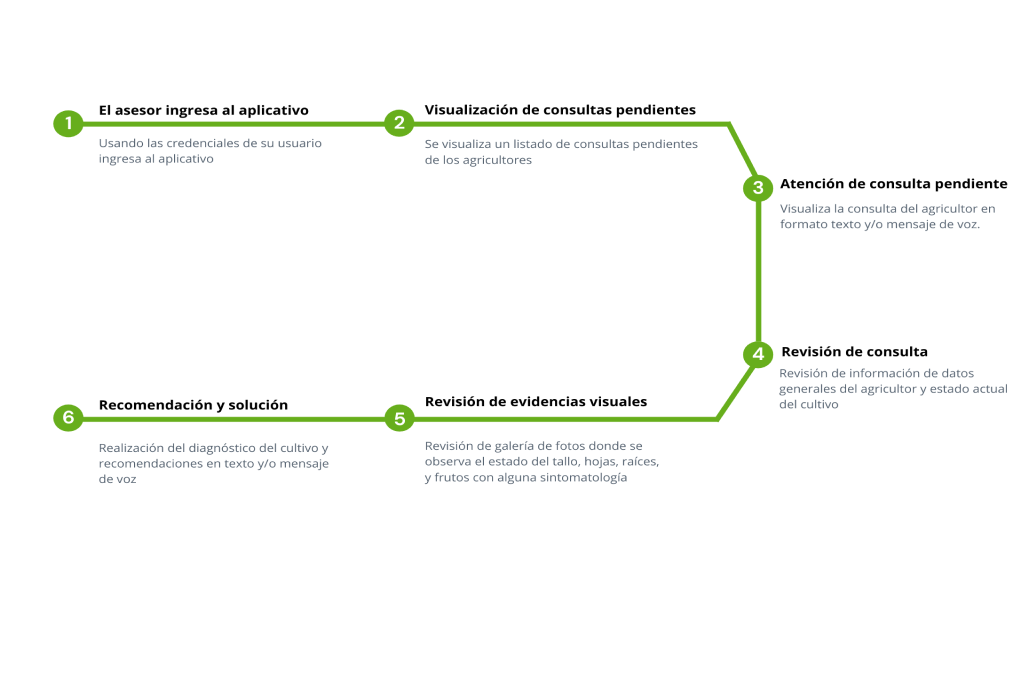
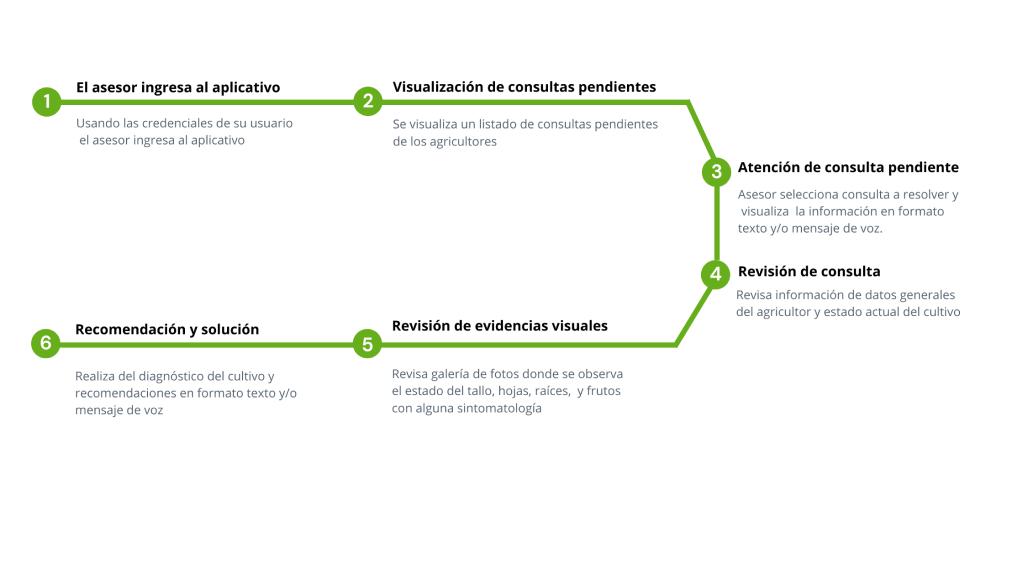
cambios dos

Changed region(s): [[0.0303, 0.125, 1.0, 0.7188]]

diff --git a/blog-single2.html b/blog-single2.html
@@ -90,7 +90,7 @@
               <h2 class="entry-title"> Proceso de Teleasesoria en AGROS </h2>
               <div class="entry-content">
                 <p>
-                  AGROS trabaja con un equipo humano que visita la parcela del agricultor para obtener sus datos generales e información de su cultivo, 
+                  AGROS cuenta con un equipo de observadores de campo (AGROLIDERES) que visitan la parcela del agricultor para obtener sus datos generales e información de su cultivo, 
                   la recolección de estos datos se realiza a través de un aplicativo digital. 
                   La información recogida en el campo es redirigida al aplicativo asesor para que a partir de dichos datos se realice la asesoría remota.
                   A continuación se muestra gráficamente los pasos que realiza el asesor técnico para generar un seguimiento, diagnóstico del cultivo y realizar una recomendación desde el aplicativo:

diff --git a/portfolio.html b/portfolio.html
@@ -110,8 +110,7 @@
           </div>
           <div class="col-lg-8">
             <p>
-              La asesoría remota brinda acompañamiento, asistencia técnica y recomendación de consultas al agricultor por medio del aplicativo; 
-              en conclusión las actividades realizadas por el asesor técnico se realizan en el mismo aplicativo.
+              La asesoría remota brinda acompañamiento, asistencia técnica y soluciones a las consultas realizadas por el agricultor a través del aplicativo
             </p>
           </div>
         </div><!-- End F.A.Q Item-->
